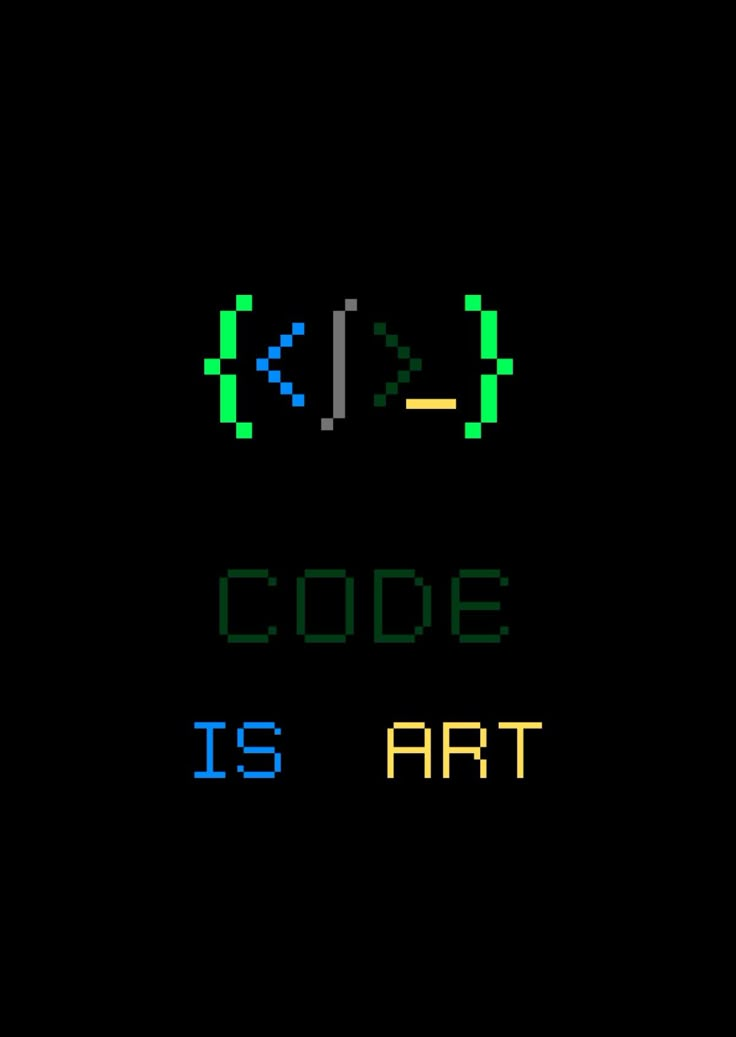
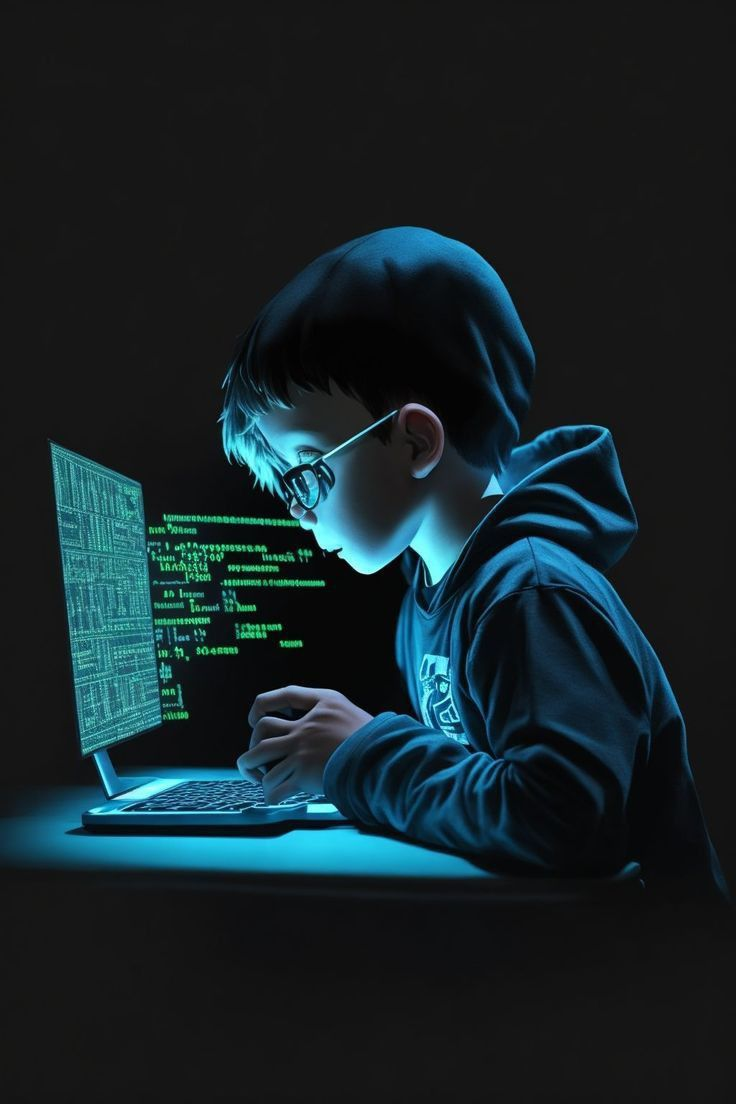
updated web

Changed region(s): [[0.0, 0.1851, 0.9688, 0.8332], [0.9688, 0.7715, 1.0, 0.8332], [0.8438, 0.7715, 0.875, 0.8023]]

diff --git a/src/components/About.jsx b/src/components/About.jsx
@@ -2,23 +2,43 @@ import React from "react";
 import profile from "../assets/hero/profile.jpg";
 import { useTranslation } from "react-i18next";
 import Education from "./Education";
+import Tools from "./Tools";
+import {
+  SiHtml5,
+  SiCss3,
+  SiJavascript,
+  SiReact,
+  SiLaravel,
+  SiPhp,
+  SiMysql,
+  SiPostgresql,
+  SiExpress,
+} from "react-icons/si";
 
 const About = () => {
   const { t } = useTranslation();
 
   const skills = [
-    "HTML & CSS",
-    "JavaScript",
-    "React",
-    "Laravel",
-    "PHP",
-    "MySQL",
-    "PostgreSQL",
-    "Express",
+    {
+      name: "HTML & CSS",
+      icon: (
+        <>
+          <SiHtml5 className="text-orange-500" />{" "}
+          <SiCss3 className="text-blue-600" />
+        </>
+      ),
+    },
+    { name: "JavaScript", icon: <SiJavascript className="text-yellow-400" /> },
+    { name: "React", icon: <SiReact className="text-cyan-400" /> },
+    { name: "Laravel", icon: <SiLaravel className="text-red-600" /> },
+    { name: "PHP", icon: <SiPhp className="text-indigo-600" /> },
+    { name: "MySQL", icon: <SiMysql className="text-blue-700" /> },
+    { name: "PostgreSQL", icon: <SiPostgresql className="text-blue-800" /> },
+    { name: "Express", icon: <SiExpress className="text-gray-800" /> },
   ];
 
   return (
-    <section className="relative py-28 bg-gray-100 dark:bg-slate-800 overflow-hidden">
+    <section className="relative py-20 bg-gray-100 dark:bg-slate-800 overflow-hidden">
       <div className="max-w-7xl mx-auto px-6">
         {/* Header */}
         <div className="text-center mb-16" data-aos="fade-up">
@@ -84,17 +104,20 @@ const About = () => {
                     key={index}
                     data-aos="fade-up"
                     data-aos-delay={index * 100}
-                    className="px-4 py-2 rounded-full text-sm font-semibold
+                    className="flex items-center gap-2 px-4 py-2 rounded-full text-sm font-semibold
                text-white
                backdrop-blur-md
                transition-all duration-300
-               bg-purple-500
+               bg-purple-400
                hover:shadow-xl"
                   >
-                    {skill}
+                    {skill.icon}
+                    {skill.name}
                   </span>
                 ))}
               </div>
+
+              <Tools />
             </div>
 
             {/* Resume Button */}

diff --git a/src/components/Tools.jsx b/src/components/Tools.jsx
@@ -1,0 +1,46 @@
+import React from "react";
+import { FaGithub, FaGitAlt, FaFigma, FaChrome, FaCode } from "react-icons/fa";
+import { SiPostman,  SiVercel,  SiIntellijidea, } from "react-icons/si";
+
+const tools = [
+{ name: "VS Code", icon: <FaCode className="text-blue-500" /> },
+{ name: "Figma", icon: <FaFigma className="text-pink-500" /> },
+{ name: "Git", icon: <FaGitAlt className="text-red-500" /> },
+{ name: "GitHub", icon: <FaGithub className="text-gray-200" /> },
+{ name: "Chrome DevTools", icon: <FaChrome className="text-yellow-400" /> },
+{ name: "Postman", icon: <SiPostman className="text-orange-500" /> },
+{ name: "Vercel", icon: <SiVercel className="text-black" /> },
+{ name: "IntelliJ IDEA", icon: <SiIntellijidea className="text-purple-700" /> },
+// { name: "Power BI", icon: <SiPowerbi className="text-yellow-600" /> },
+,
+];
+
+const Tools = () => {
+  return (
+    <div className="my-8">
+       <h3 className="text-sm uppercase tracking-widest text-gray-500 dark:text-gray-400 mb-4">
+                Tools
+              </h3>
+      <div className="flex flex-wrap gap-3">
+        {tools.map((tool, index) => (
+          <span
+            key={index}
+            data-aos="fade-up"
+            data-aos-delay={index * 100}
+            className="flex items-center gap-2 px-4 py-2 rounded-full text-sm font-semibold
+                       text-white
+                       backdrop-blur-md
+                       transition-all duration-300
+                       bg-purple-400
+                       hover:shadow-xl"
+          >
+            {tool.icon}
+            {tool.name}
+          </span>
+        ))}
+      </div>
+    </div>
+  );
+};
+
+export default Tools;

diff --git a/src/components/Hero.jsx b/src/components/Hero.jsx
@@ -5,7 +5,7 @@ import {
   FaInstagram,
   FaGithub,
 } from "react-icons/fa";
-import logo from "../assets/hero/download (1).jpg";
+import logo from '../assets/hero/coder.jpg'
 import { useTranslation } from "react-i18next";
 
 const Hero = () => {
